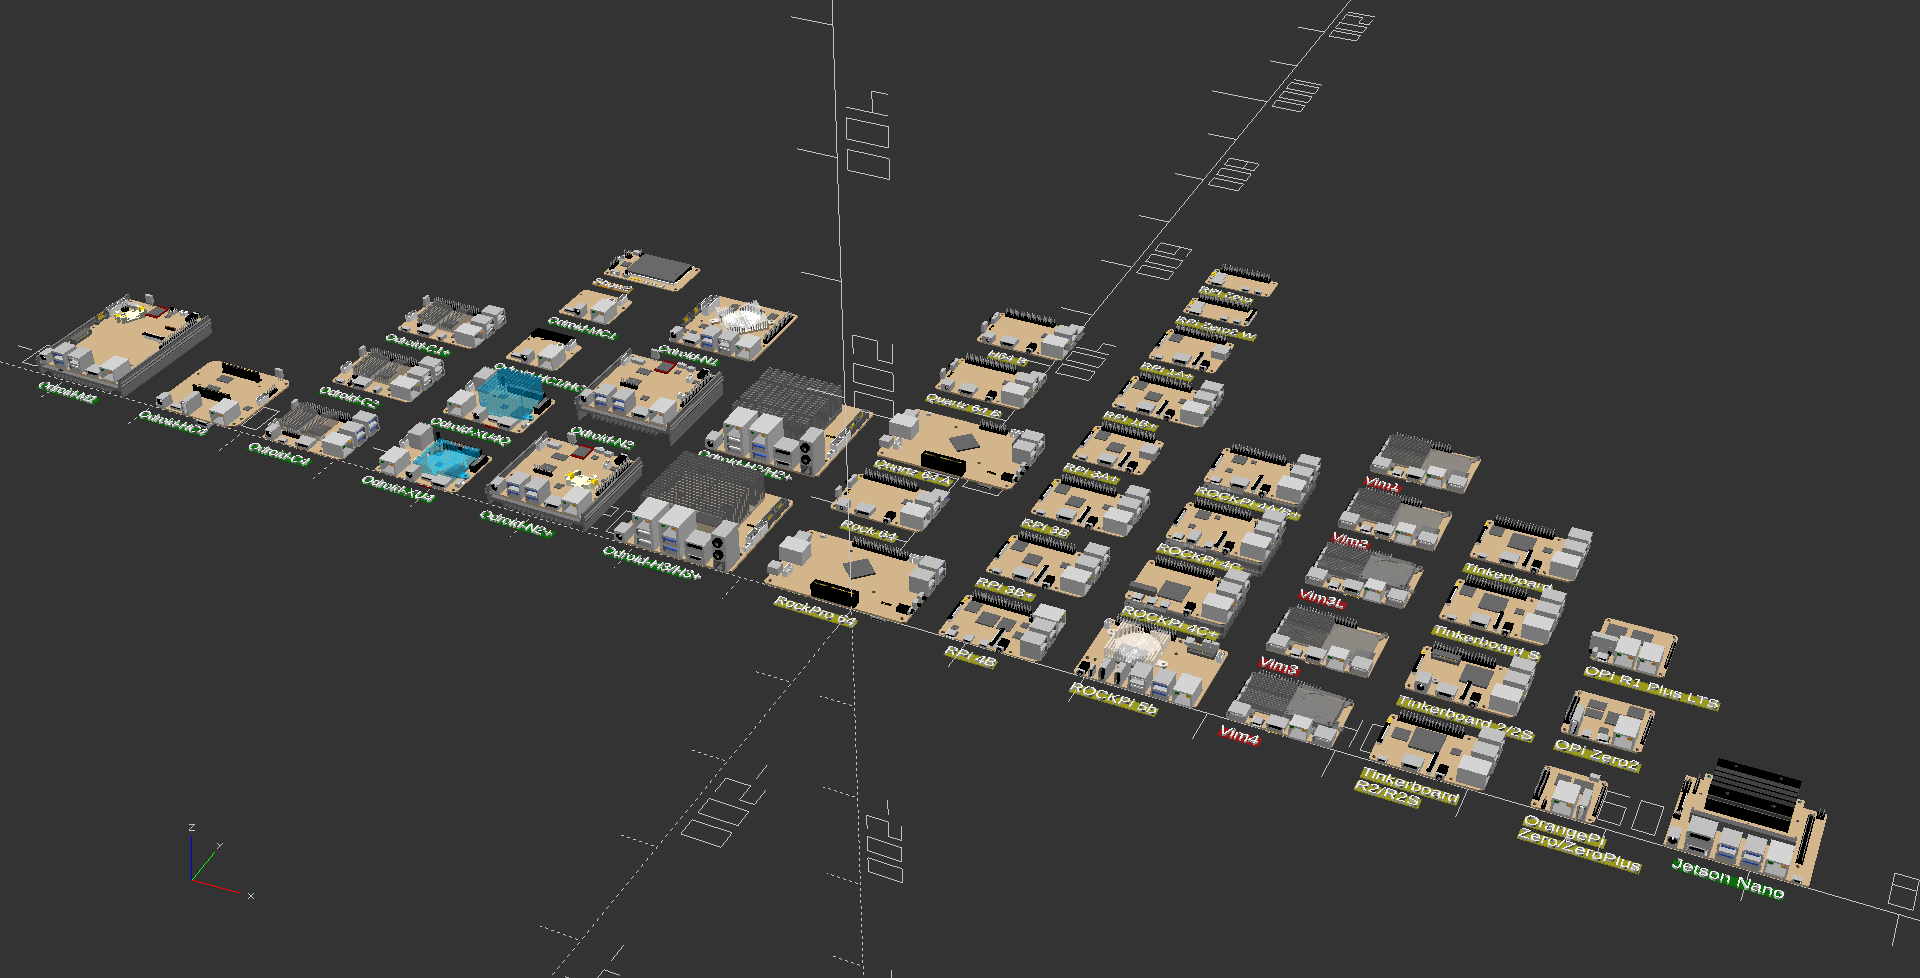
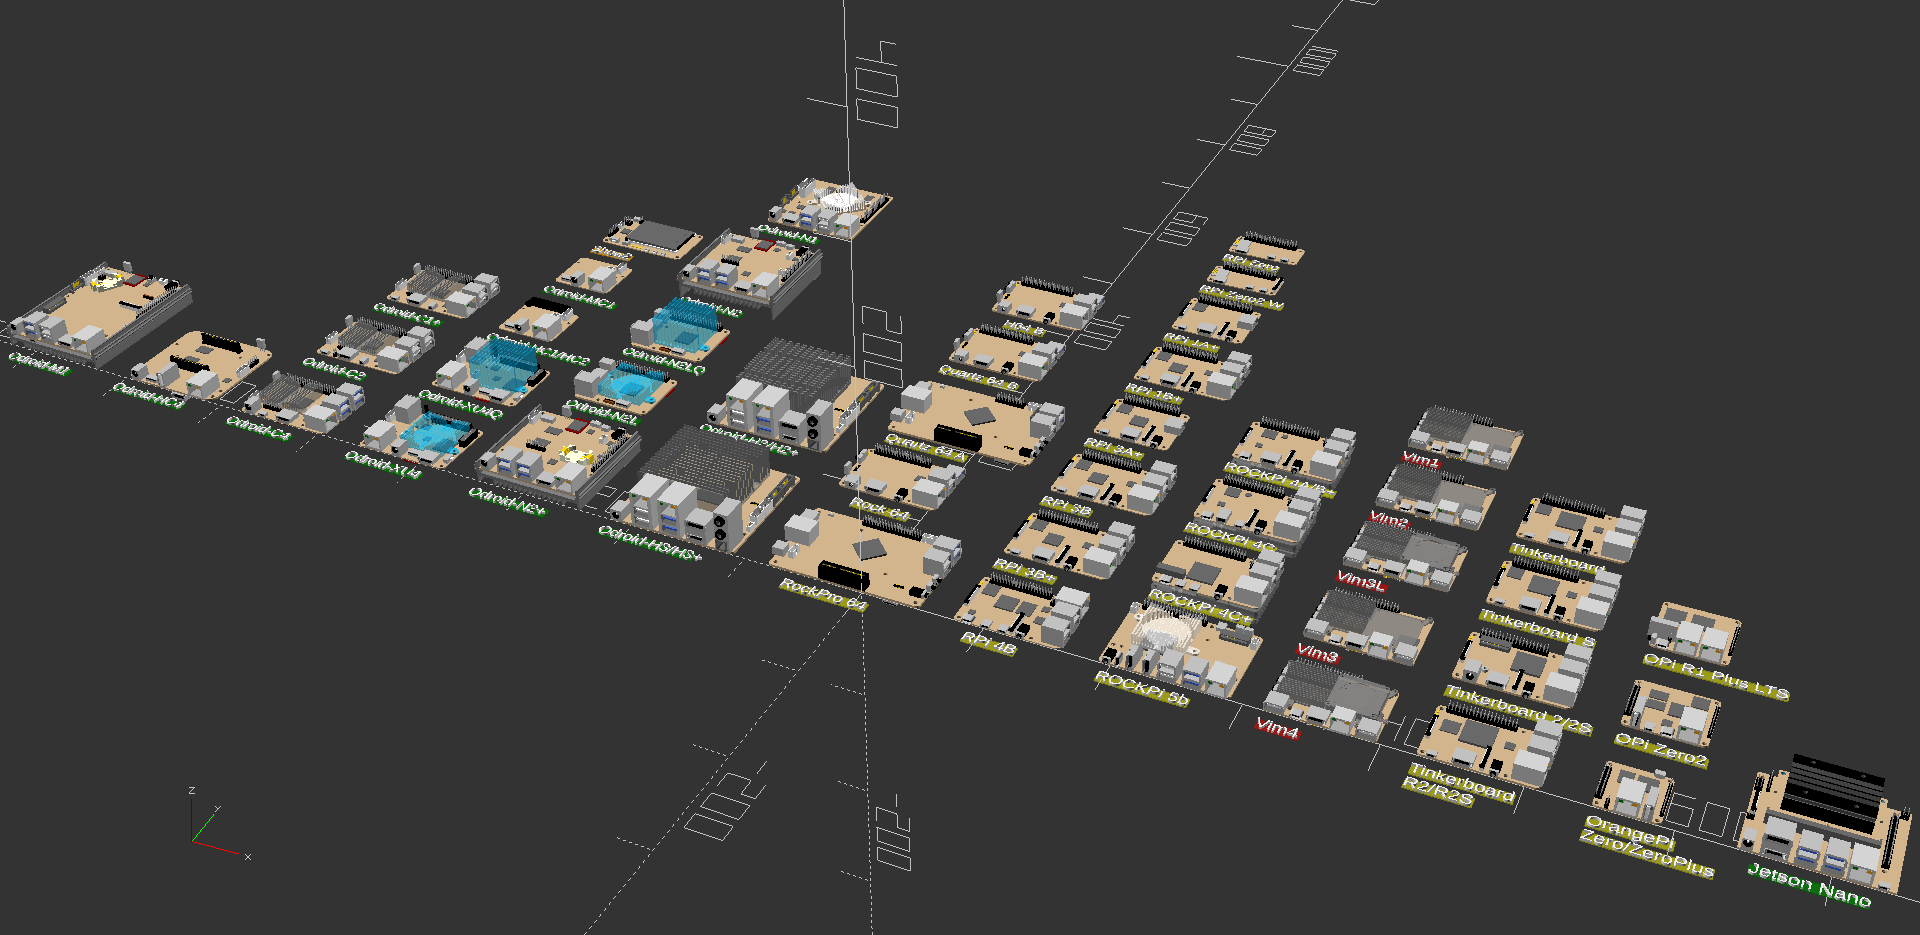
added odroid-n2l as n2l and n2lq

diff --git a/README.md b/README.md
@@ -7,7 +7,7 @@ This project is a lightweight and dynamic framework for the generation of SBC an
 
 ![Image](sbc.png)
 
-### Current SBC: 51
+### Current SBC: 53
 
 ## Using the Framework
 
@@ -94,9 +94,9 @@ ORANGE = unverified, may be usable but missing component data.
 RED = unverified, not usable due to incomplete component data.
 ```
 
-### Hardkernel Odroid: 17
+### Hardkernel Odroid: 19
 
-c1+, c2, c4, xu4, xu4q, mc1, hc1, hc4, m1, n1, n2, n2+, h2(h2+), h3(h3+) - GREEN, verified.
+c1+, c2, c4, xu4, xu4q, mc1, hc1, hc4, m1, n1, n2, n2l, n2q, n2+, h2(h2+), h3(h3+) - GREEN, verified.
 
 show2 - ORANGE, unverified, unknown status.
 
